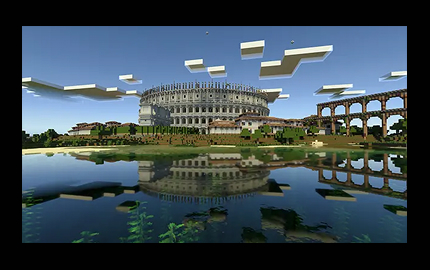
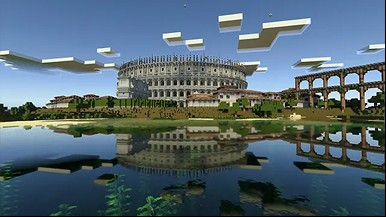
23/04/2025 10:56
Corregir los espacios de la imagenes y cambiar el tamaño del logo de minecraft

diff --git a/RTX 3050 - copia/index.html b/RTX 3050 - copia/index.html
@@ -2,6 +2,7 @@
 <html>
     <head>
         <title>RTX 3050</title>
+        <meta charset="UTF-8">
         <meta name="viewport" content="width=device-width, initial-scale=1.0">
         <link href="https://cdn.jsdelivr.net/npm/bootstrap@5.3.5/dist/css/bootstrap.min.css" rel="stylesheet" integrity="sha384-SgOJa3DmI69IUzQ2PVdRZhwQ+dy64/BUtbMJw1MZ8t5HZApcHrRKUc4W0kG879m7" crossorigin="anonymous">
         <link rel="stylesheet" href="css/rtx.css">
@@ -113,7 +114,18 @@
                     <h1 class="titulos"><strong><b>Obtén Un Rendimiento Más Rápido Con NVIDIA DLSS</b></strong></h1>
                     <h2><b>Máximo Nivel De FPS. Máxima Calidad. <br>Con La Tecnología De IA.</b></h2>
                     <p>Consigue un aumento de rendimiento con NVIDIA DLSS (Deep Learning Super Sampling). Los Núcleos Tensor especializados en IA de las tarjetas gráficas GeForce RTX aumentan la velocidad con una calidad de imagen sin compromisos. Esto te permite aumentar la configuración y la resolución para disfrutar de una experiencia visual aún mejor.</p>
+                    <a href="https://www.nvidia.com/es-la/geforce/technologies/dlss/" class="boton-verde">Más Información Sobre NVIDIA DLSSS</a>
+                    <img src="img/mobile/img-fps-bg-mobile.jpg">
                 </div>  
+            </div>
+        </section>
+        <section id="ray-tracing-minecraft">
+            <div class="row text-blanco">
+                <h2><b>Ray Tracing</b></h2>
+                <p>El ray tracing simula cómo se comporta la luz en el mundo real para producir los gráficos más realistas e Inmersivos para jugadores y creadores. GeForce RTX Serie 30 cuenta con núcleos RT para mejorar el rendimiento del ray tracing.</p>
+            </div>
+            <div  id="logo-minecraft">
+                <img src="img/geforce-rtx-minecraft-logotype.svg" alt="">
             </div>
         </section>
         <section id="caracteristicas-adicionales" class="container">

diff --git a/RTX 3050 - copia/css/rtx.css b/RTX 3050 - copia/css/rtx.css
@@ -20,8 +20,29 @@ body{background-color: black;}
     background-repeat: no-repeat;
     background-position: center;
     text-align: center;
-    padding-top: 648px;
+    padding-top: 69px;
+
 }
+
+.boton-verde {
+    display: inline-block;
+    padding: 10px 20px;
+    background-color:chartreuse; 
+    color: black; 
+    text-decoration: none;
+    border-radius: 5px;
+    font-weight: bold;
+}
+
+#ray-tracing-minecraft{
+    background-image: url(../img/mobile/img-minecraftrtx-bg-mobile.jpg);
+    background-repeat: no-repeat;
+    background-position: center;
+    text-align: center;
+    padding-top: 504px;
+    
+}
+
 
 .titulos{
     height: 20px;
@@ -90,16 +111,6 @@ box-sizing: border-box;
     padding: 40px;
     padding-top: 0px;
 }
-
-
-
-#video-rxt{
-    background-color: black;
-    background-image: url(../img/mobile/img-fondorendi-bg-mobile.jpg);
-
-
-}
-
 
 
 
